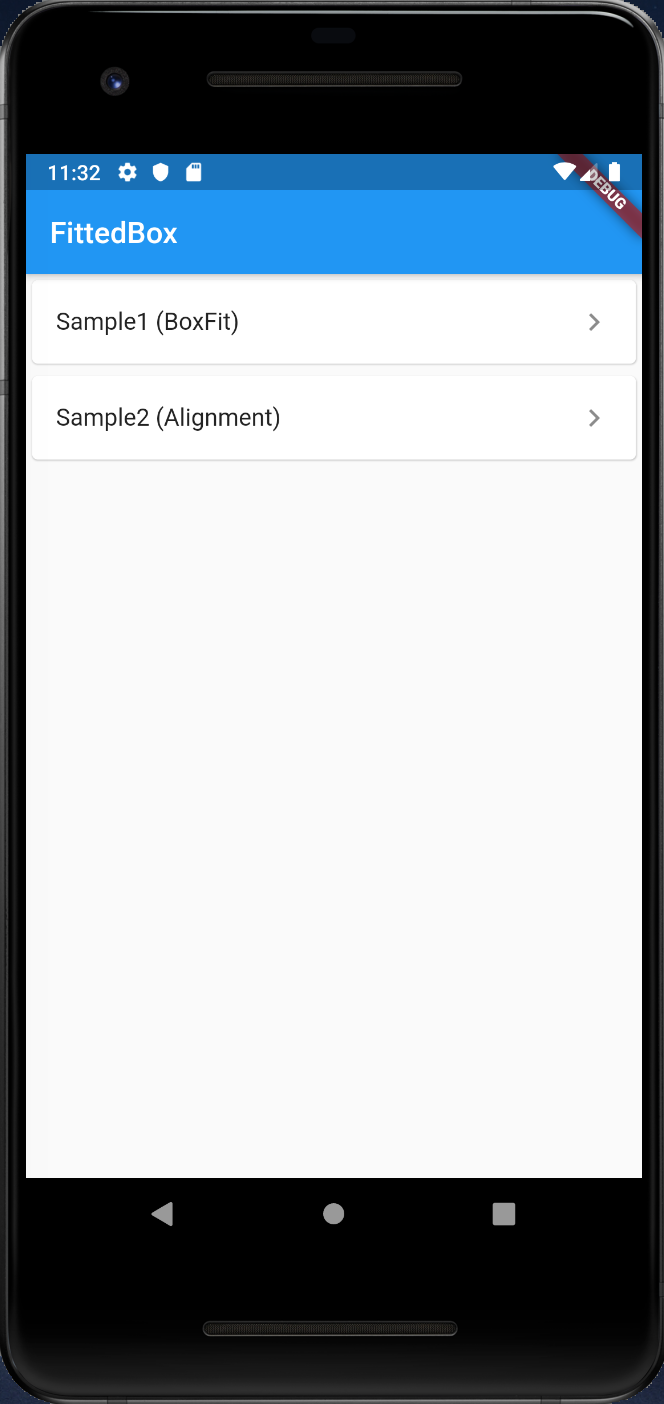
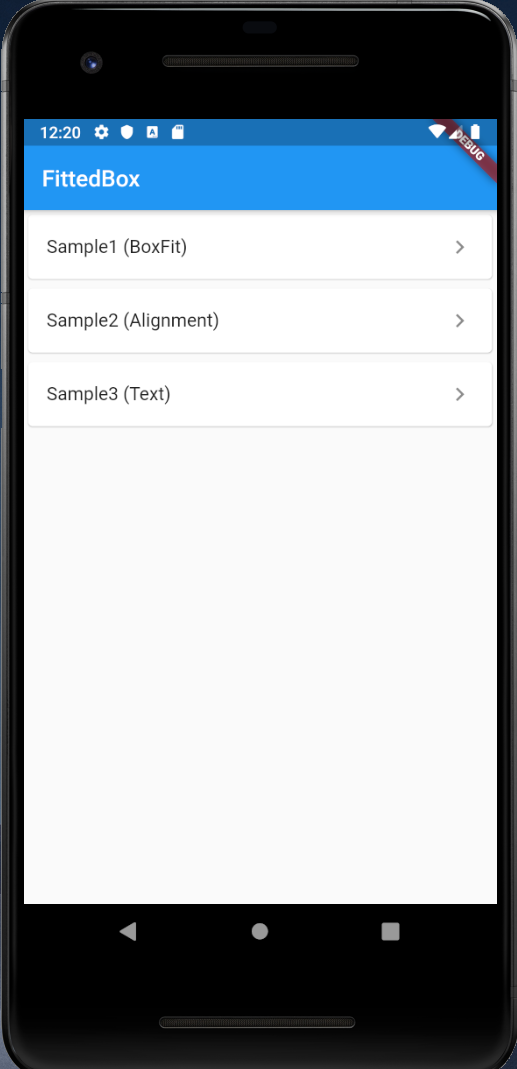
[FittedBox] Add Sampl3 (Text)

diff --git a/fitted_box/lib/pages/sample3.dart b/fitted_box/lib/pages/sample3.dart
@@ -1,0 +1,47 @@
+import 'package:flutter/material.dart';
+
+class Sample3Page extends StatelessWidget {
+  @override
+  Widget build(BuildContext context) {
+    return Scaffold(
+      appBar: AppBar(
+        title: Text('Sample3 (Text)'),
+      ),
+      body: Center(
+        child: Column(
+          children: <Widget>[
+            Spacer(flex: 1),
+            MyRect(
+              child: Text('Text'),
+            ),
+            Spacer(flex: 1),
+            MyRect(
+              child: FittedBox(
+                child: Text('Text in FittedBox'),
+              ),
+            ),
+            Spacer(flex: 1),
+          ],
+        ),
+      ),
+    );
+  }
+}
+
+class MyRect extends StatelessWidget {
+  final child;
+
+  MyRect({@required this.child});
+
+  @override
+  Widget build(BuildContext context) {
+    return Container(
+      decoration: BoxDecoration(
+        border: Border.all(width: 1),
+      ),
+      width: 200.0,
+      height: 100.0,
+      child: child,
+    );
+  }
+}

diff --git a/fitted_box/lib/main.dart b/fitted_box/lib/main.dart
@@ -1,6 +1,8 @@
-import 'package:fitted_box/pages/sample1.dart';
-import 'package:fitted_box/pages/sample2.dart';
 import 'package:flutter/material.dart';
+
+import 'pages/sample1.dart';
+import 'pages/sample2.dart';
+import 'pages/sample3.dart';
 
 void main() => runApp(MyApp());
 
@@ -13,6 +15,7 @@ class MyApp extends StatelessWidget {
         '/': (BuildContext context) => MyHomePage(),
         '/sample1': (BuildContext context) => Sample1Page(),
         '/sample2': (BuildContext context) => Sample2Page(),
+        '/sample3': (BuildContext context) => Sample3Page(),
       },
     );
   }
@@ -30,6 +33,7 @@ class MyHomePage extends StatelessWidget {
           children: <Widget>[
             _buildList(context, 'Sample1 (BoxFit)', '/sample1'),
             _buildList(context, 'Sample2 (Alignment)', '/sample2'),
+            _buildList(context, 'Sample3 (Text)', '/sample3'),
           ],
         ),
       ),

diff --git a/fitted_box/README.md b/fitted_box/README.md
@@ -9,3 +9,8 @@
 |Menu|Sample1 (BoxFit)|Sample2 (Alignment)|
 |:-:|:-:|:-:|
 |<img src="./screenshots/Menu.png" height="400" alt="Screenshot"/>|<img src="./screenshots/Sample1.png" height="400" alt="Screenshot"/>|<img src="./screenshots/Sample2.png" height="400" alt="Screenshot"/>|
+
+
+|Sample3 (Text)|
+|:-:|
+<img src="./screenshots/Sample3.png" height="400" alt="Screenshot"/>|
